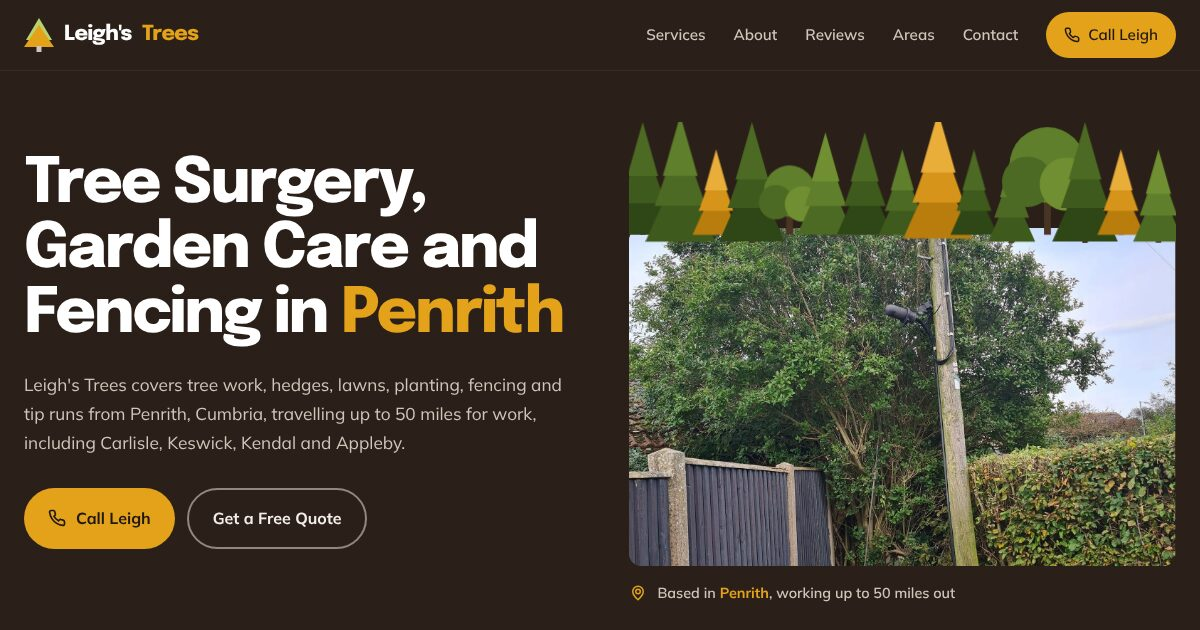
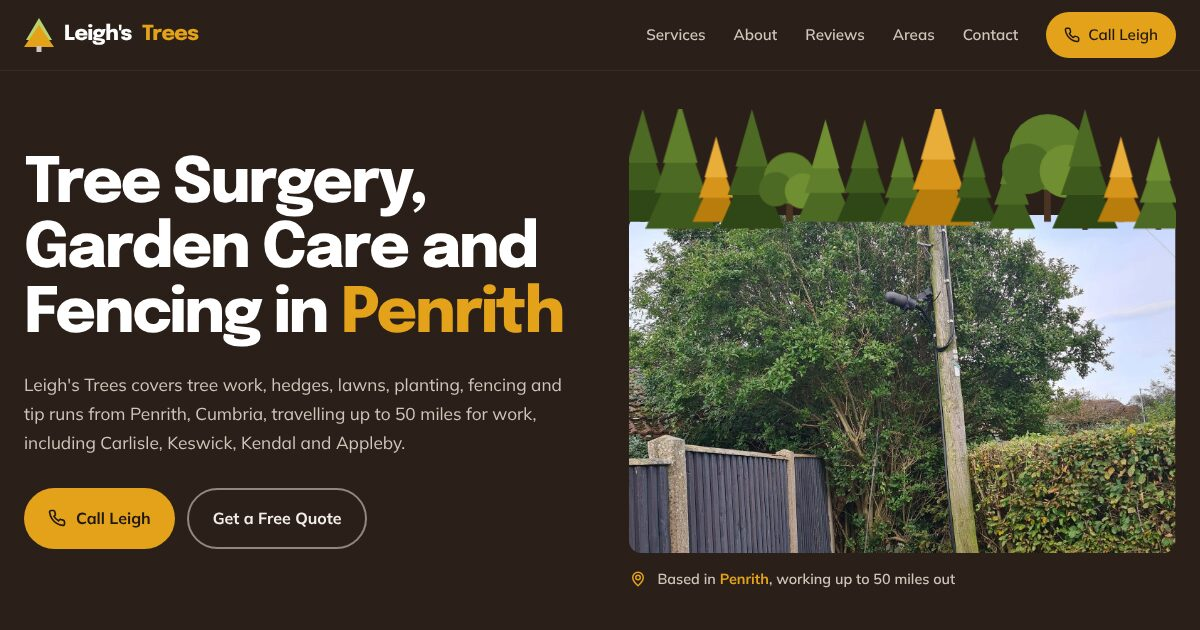
Leigh's Trees A: hero photo and treeline centred in line with the headline and buttons

Changed region(s): [[0.5242, 0.181, 0.9867, 0.9651]]

diff --git a/lees-trees/index.html b/lees-trees/index.html
@@ -90,7 +90,7 @@ h3{font-size:1.2rem;letter-spacing:-.02em;line-height:1.2}
 .ctas{display:flex;gap:12px;flex-wrap:wrap}
 .hero-copy>*{opacity:0;animation:fadeUp .7s ease forwards}
 .hero-copy h1{animation-delay:.1s}.hero-copy .lede{animation-delay:.25s}.hero-copy .ctas{animation-delay:.4s}
-.hero-visual{position:relative;height:100%;display:flex;align-items:flex-end;min-height:0;padding-bottom:0}
+.hero-visual{position:relative;height:100%;display:flex;align-items:center;min-height:0;padding-top:24px;padding-bottom:0}
 .canopy{width:100%;height:auto;display:block}
 .canopy .tree{transform-box:fill-box;transform-origin:50% 100%;transform:scaleY(0)}
 .go .canopy .tree{animation:grow .9s cubic-bezier(.2,.9,.25,1.05) forwards}
